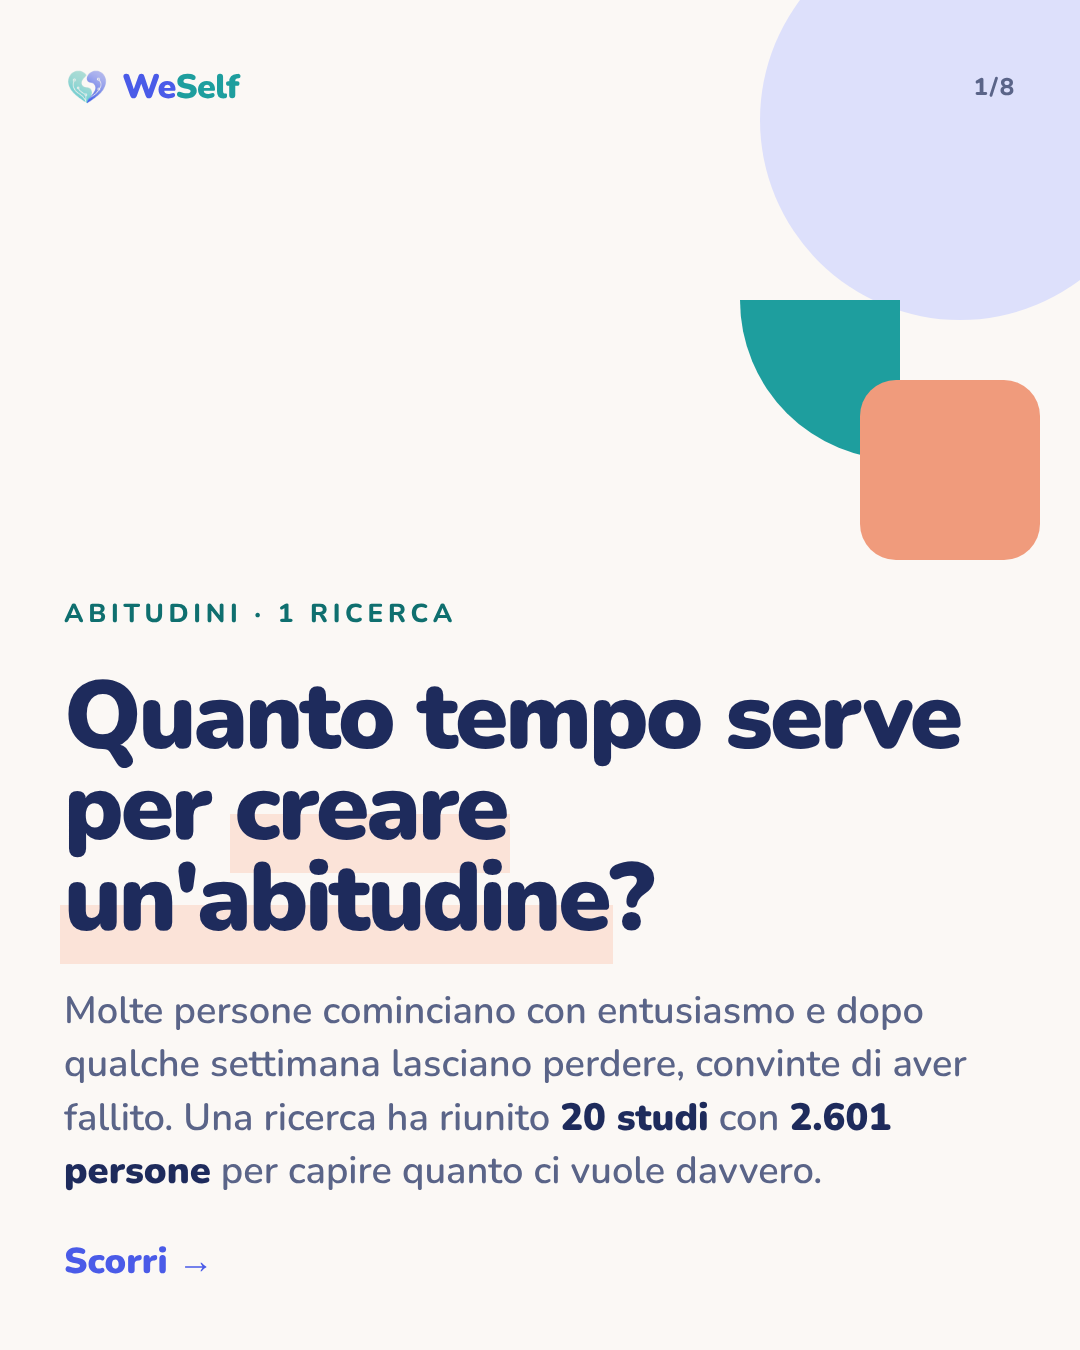
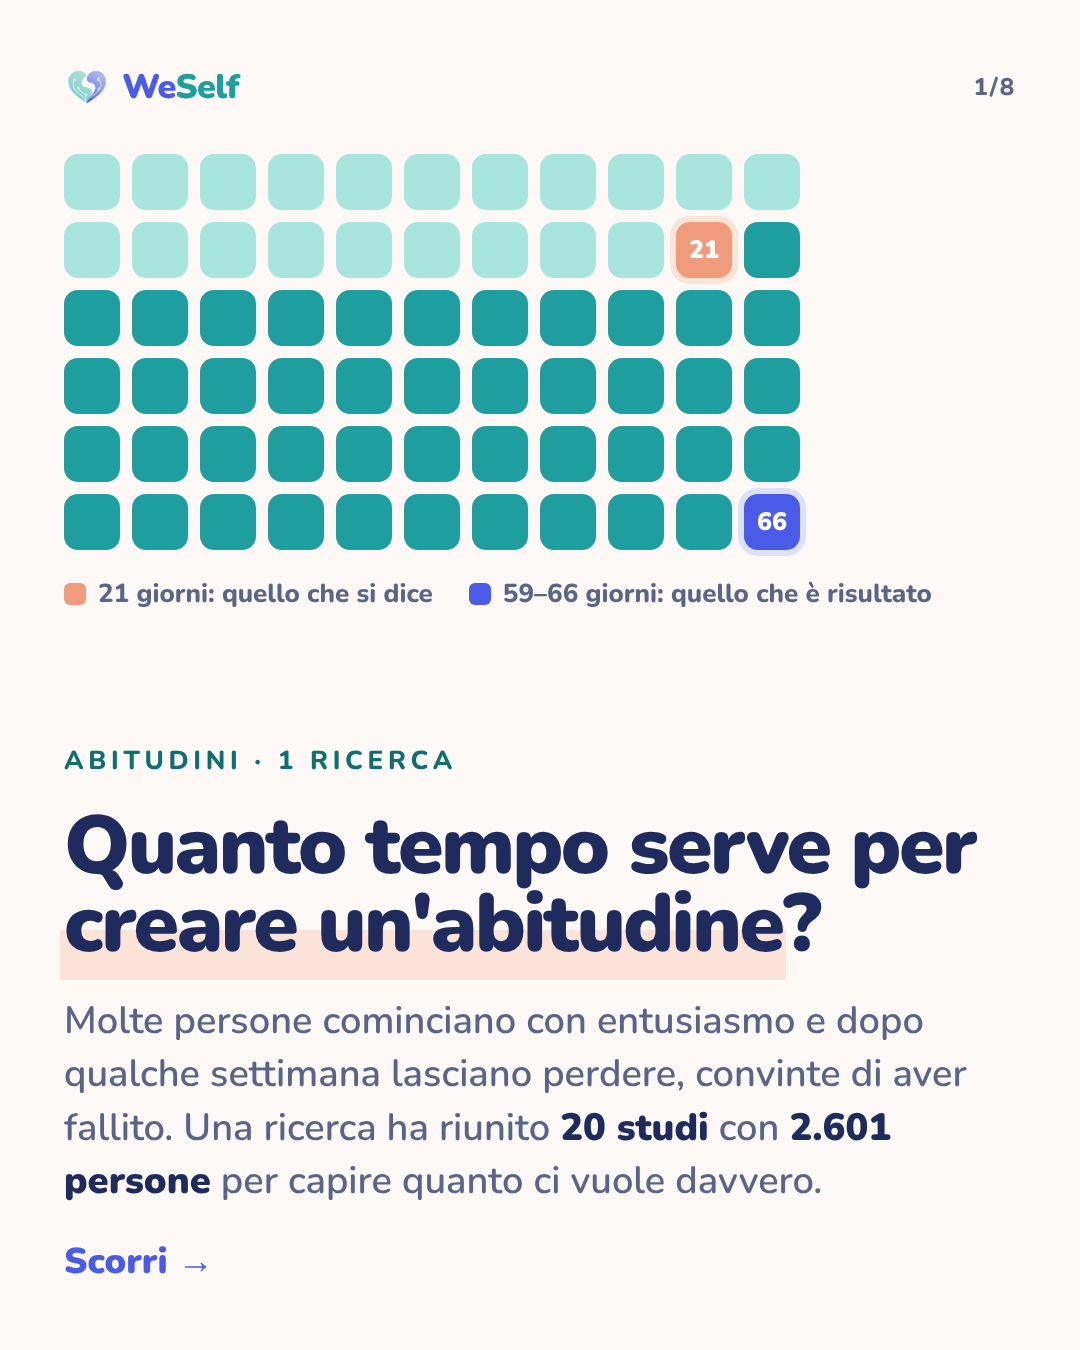
Carosello abitudini: nuova copertina con griglia dei 66 giorni
Claude-Session: https://claude.ai/code/session_01KYQeP73Zvn8PeP6zhkL2Sc

diff --git a/carosselli/abitudini/slides.html b/carosselli/abitudini/slides.html
@@ -93,18 +93,28 @@ svg.shape{position:absolute;z-index:1}
 .para .a{background:var(--teal-soft)}.para .b{background:var(--coral-soft)}
 .para small{display:block;font-weight:800;font-size:22px;letter-spacing:.14em;text-transform:uppercase;margin-bottom:10px;color:var(--muted)}
 .para .n{display:block;font-weight:900;font-size:84px;line-height:1;letter-spacing:-.03em;margin-bottom:6px}
+.days{display:grid;grid-template-columns:repeat(11,56px);gap:12px;margin-top:44px;align-self:flex-start}
+.days i{width:56px;height:56px;border-radius:14px;display:flex;align-items:center;justify-content:center;font-style:normal;font-weight:900;font-size:25px;color:#fff}
+.days .a{background:var(--teal-soft)}.days .b{background:var(--teal)}
+.days .d21{background:var(--coral);box-shadow:0 0 0 6px var(--coral-soft)}.days .d66{background:var(--peri);box-shadow:0 0 0 6px var(--peri-soft)}
+.legend{display:flex;gap:36px;font-weight:800;font-size:26px;color:var(--muted);margin-top:26px}
+.legend span{display:flex;align-items:center;gap:12px}.legend b{width:22px;height:22px;border-radius:6px;display:inline-block}
 </style>
 
 <section class="slide" id="s1">
-  <svg class="shape" style="right:0;top:0" width="520" height="620" viewBox="0 0 520 620">
-    <circle class="s-tintwe" cx="400" cy="120" r="200"/>
-    <path class="s-self" d="M180 300 h160 v160 a160 160 0 0 1 -160 -160 z"/>
-    <rect class="s-warm" x="300" y="380" width="180" height="180" rx="36"/>
-  </svg>
   <div class="top"><div class="brand"><img src="weself-mark.png"><span><span class="we">We</span><span class="self">Self</span></span></div><div class="count">1/8</div></div>
-  <div style="margin-top:auto" class="stack">
+  <div class="days">
+    <i class="a"></i><i class="a"></i><i class="a"></i><i class="a"></i><i class="a"></i><i class="a"></i><i class="a"></i><i class="a"></i><i class="a"></i><i class="a"></i><i class="a"></i>
+    <i class="a"></i><i class="a"></i><i class="a"></i><i class="a"></i><i class="a"></i><i class="a"></i><i class="a"></i><i class="a"></i><i class="a"></i><i class="d21">21</i><i class="b"></i>
+    <i class="b"></i><i class="b"></i><i class="b"></i><i class="b"></i><i class="b"></i><i class="b"></i><i class="b"></i><i class="b"></i><i class="b"></i><i class="b"></i><i class="b"></i>
+    <i class="b"></i><i class="b"></i><i class="b"></i><i class="b"></i><i class="b"></i><i class="b"></i><i class="b"></i><i class="b"></i><i class="b"></i><i class="b"></i><i class="b"></i>
+    <i class="b"></i><i class="b"></i><i class="b"></i><i class="b"></i><i class="b"></i><i class="b"></i><i class="b"></i><i class="b"></i><i class="b"></i><i class="b"></i><i class="b"></i>
+    <i class="b"></i><i class="b"></i><i class="b"></i><i class="b"></i><i class="b"></i><i class="b"></i><i class="b"></i><i class="b"></i><i class="b"></i><i class="b"></i><i class="d66">66</i>
+  </div>
+  <div class="legend"><span><b style="background:var(--coral)"></b>21 giorni: quello che si dice</span><span><b style="background:var(--peri)"></b>59–66 giorni: quello che è risultato</span></div>
+  <div style="margin-top:auto;gap:30px" class="stack">
     <p class="kicker">Abitudini · 1 ricerca</p>
-    <h1 style="font-size:96px">Quanto tempo serve per <span class="hl">creare un'abitudine</span>?</h1>
+    <h1 style="font-size:82px">Quanto tempo serve per <span class="hl">creare un'abitudine</span>?</h1>
     <p class="mid muted">Molte persone cominciano con entusiasmo e dopo qualche settimana lasciano perdere, convinte di aver fallito. Una ricerca ha riunito <b style="color:var(--ink)">20 studi</b> con <b style="color:var(--ink)">2.601 persone</b> per capire quanto ci vuole davvero.</p>
     <p style="font-weight:900;font-size:36px;color:var(--peri)">Scorri →</p>
   </div>

diff --git a/carosselli/abitudini/body.html b/carosselli/abitudini/body.html
@@ -18,18 +18,28 @@
 .para .a{background:var(--teal-soft)}.para .b{background:var(--coral-soft)}
 .para small{display:block;font-weight:800;font-size:22px;letter-spacing:.14em;text-transform:uppercase;margin-bottom:10px;color:var(--muted)}
 .para .n{display:block;font-weight:900;font-size:84px;line-height:1;letter-spacing:-.03em;margin-bottom:6px}
+.days{display:grid;grid-template-columns:repeat(11,56px);gap:12px;margin-top:44px;align-self:flex-start}
+.days i{width:56px;height:56px;border-radius:14px;display:flex;align-items:center;justify-content:center;font-style:normal;font-weight:900;font-size:25px;color:#fff}
+.days .a{background:var(--teal-soft)}.days .b{background:var(--teal)}
+.days .d21{background:var(--coral);box-shadow:0 0 0 6px var(--coral-soft)}.days .d66{background:var(--peri);box-shadow:0 0 0 6px var(--peri-soft)}
+.legend{display:flex;gap:36px;font-weight:800;font-size:26px;color:var(--muted);margin-top:26px}
+.legend span{display:flex;align-items:center;gap:12px}.legend b{width:22px;height:22px;border-radius:6px;display:inline-block}
 </style>
 
 <section class="slide" id="s1">
-  <svg class="shape" style="right:0;top:0" width="520" height="620" viewBox="0 0 520 620">
-    <circle class="s-tintwe" cx="400" cy="120" r="200"/>
-    <path class="s-self" d="M180 300 h160 v160 a160 160 0 0 1 -160 -160 z"/>
-    <rect class="s-warm" x="300" y="380" width="180" height="180" rx="36"/>
-  </svg>
   <div class="top"><div class="brand"><img src="weself-mark.png"><span><span class="we">We</span><span class="self">Self</span></span></div><div class="count">1/8</div></div>
-  <div style="margin-top:auto" class="stack">
+  <div class="days">
+    <i class="a"></i><i class="a"></i><i class="a"></i><i class="a"></i><i class="a"></i><i class="a"></i><i class="a"></i><i class="a"></i><i class="a"></i><i class="a"></i><i class="a"></i>
+    <i class="a"></i><i class="a"></i><i class="a"></i><i class="a"></i><i class="a"></i><i class="a"></i><i class="a"></i><i class="a"></i><i class="a"></i><i class="d21">21</i><i class="b"></i>
+    <i class="b"></i><i class="b"></i><i class="b"></i><i class="b"></i><i class="b"></i><i class="b"></i><i class="b"></i><i class="b"></i><i class="b"></i><i class="b"></i><i class="b"></i>
+    <i class="b"></i><i class="b"></i><i class="b"></i><i class="b"></i><i class="b"></i><i class="b"></i><i class="b"></i><i class="b"></i><i class="b"></i><i class="b"></i><i class="b"></i>
+    <i class="b"></i><i class="b"></i><i class="b"></i><i class="b"></i><i class="b"></i><i class="b"></i><i class="b"></i><i class="b"></i><i class="b"></i><i class="b"></i><i class="b"></i>
+    <i class="b"></i><i class="b"></i><i class="b"></i><i class="b"></i><i class="b"></i><i class="b"></i><i class="b"></i><i class="b"></i><i class="b"></i><i class="b"></i><i class="d66">66</i>
+  </div>
+  <div class="legend"><span><b style="background:var(--coral)"></b>21 giorni: quello che si dice</span><span><b style="background:var(--peri)"></b>59–66 giorni: quello che è risultato</span></div>
+  <div style="margin-top:auto;gap:30px" class="stack">
     <p class="kicker">Abitudini · 1 ricerca</p>
-    <h1 style="font-size:96px">Quanto tempo serve per <span class="hl">creare un'abitudine</span>?</h1>
+    <h1 style="font-size:82px">Quanto tempo serve per <span class="hl">creare un'abitudine</span>?</h1>
     <p class="mid muted">Molte persone cominciano con entusiasmo e dopo qualche settimana lasciano perdere, convinte di aver fallito. Una ricerca ha riunito <b style="color:var(--ink)">20 studi</b> con <b style="color:var(--ink)">2.601 persone</b> per capire quanto ci vuole davvero.</p>
     <p style="font-weight:900;font-size:36px;color:var(--peri)">Scorri →</p>
   </div>

diff --git a/carosselli/abitudini/kit-pubblicazione-abitudini.md b/carosselli/abitudini/kit-pubblicazione-abitudini.md
@@ -42,7 +42,7 @@ Come abbiamo tradotto i numeri: «59–66 giorni» sono le mediane riportate da 
 
 ## Testo alternativo (una riga per immagine)
 
-1. Copertina WeSelf: «Quanto tempo serve per creare un'abitudine? Molte persone cominciano con entusiasmo e dopo qualche settimana lasciano perdere, convinte di aver fallito. Una ricerca ha riunito 20 studi con 2.601 persone per capire quanto ci vuole davvero.»
+1. Copertina WeSelf: una griglia di 66 quadratini, uno per giorno; il giorno 21 è evidenziato in corallo («21 giorni: quello che si dice»), il giorno 66 in blu («59–66 giorni: quello che è risultato»). Testo: «Quanto tempo serve per creare un'abitudine? Molte persone cominciano con entusiasmo e dopo qualche settimana lasciano perdere, convinte di aver fallito. Una ricerca ha riunito 20 studi con 2.601 persone per capire quanto ci vuole davvero.»
 2. La ricerca: 20 studi con 2.601 partecipanti, con un'età media tra i 21 e i 73 anni. È una revisione sistematica con meta-analisi del 2024 su abitudini di salute come attività fisica, alimentazione, bere acqua, filo interdentale e stare meno seduti. Ha misurato quanto un gesto diventa automatico, con questionari compilati dai partecipanti.
 3. Quanto ci vuole: nei 4 studi che hanno misurato il tempo ci sono voluti in genere circa due mesi. A metà classifica, 59–66 giorni; da persona a persona, da 4 a 335 giorni. In uno studio sull'alimentazione, solo il 23% dei partecipanti è arrivato alla soglia di abitudine fissata dai ricercatori.
 4. I numeri, tradotti: alla fine degli interventi, la persona media aveva un'abitudine più forte del 75% dei punteggi registrati all'inizio. È un effetto medio-grande, emerso in 12 studi; il più alto per il filo interdentale, nessun effetto chiaro per lo stare meno seduti.
